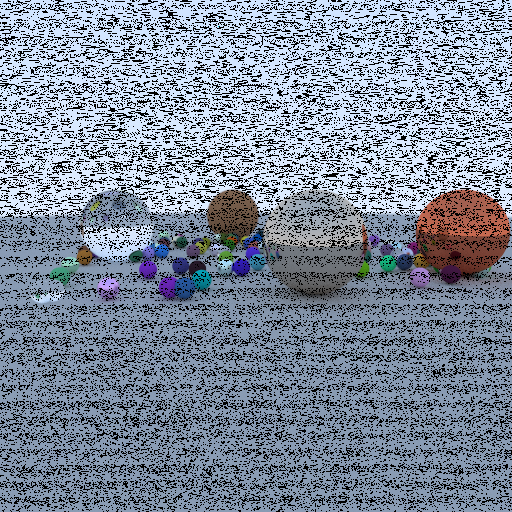
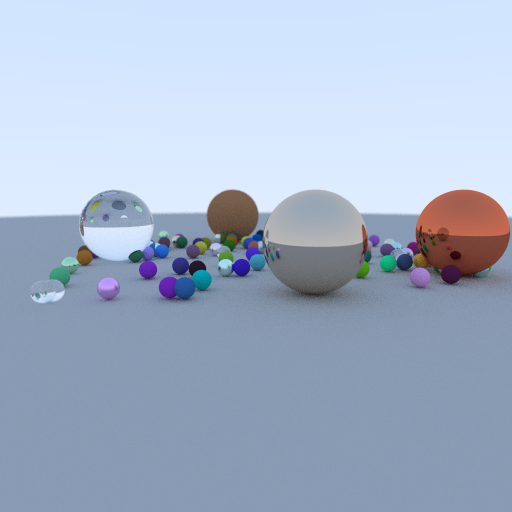
stable rough parallel copy

Changed region(s): [[0.0, 0.0, 1.0, 1.0]]

diff --git a/Ray_Tracing_One_Weekend/main.cpp b/Ray_Tracing_One_Weekend/main.cpp
@@ -79,10 +79,8 @@ int main()
         10.0f                   //focus distance
     );
 
-    RTImage image(image_width, image_height);
-
-    std::vector<RayTraceThread*> threadList;
-    int core_count = 32;
+    std::vector<RayTraceThread*> thread_list;
+    int core_count = 16;
     int lines_per_core = image_height / core_count;
     
     int row_start = 0;
@@ -92,10 +90,10 @@ int main()
 
     for (int i = 0; i < core_count; i++)
     {
-        RayTraceThread* thread = new RayTraceThread(world, &camera, &image, row_start, 
+        RayTraceThread* thread = new RayTraceThread(world, &camera, row_start, 
             row_end, image_width, samples_per_pixel, depth);
         thread->start();
-        threadList.push_back(thread);
+        thread_list.push_back(thread);
 
         row_start += lines_per_core;
         row_end += lines_per_core;
@@ -105,10 +103,10 @@ int main()
 
     while (is_scanning)
     {
-        for (int i = 0; i < threadList.size(); i++)
+        for (int i = 0; i < thread_list.size(); i++)
         {
             is_scanning = false;
-            if (threadList[i]->isRunning())
+            if (thread_list[i]->isRunning())
             {
                 is_scanning = true;
                 break;
@@ -118,6 +116,18 @@ int main()
         IETThread::sleep(100);
     }
 
-    threadList[0]->writeImage();
+    cv::Mat image_container = cv::Mat::zeros(image_height, image_width, CV_8UC3);
+
+    for (int i = 0; i < thread_list.size(); i++)
+    {
+        cv::Mat thread_image = thread_list[i]->getImageData();
+
+        int row_start = thread_list[i]->getRowStart();
+        int row_end = thread_list[i]->getRowEnd();
+
+        cv::bitwise_or(thread_image, image_container, image_container);
+    }
+    cv::String file_name = "_Image_Render.png";
+    cv::imwrite(file_name, image_container);
 
 }

diff --git a/Ray_Tracing_One_Weekend/RayTraceThread.cpp b/Ray_Tracing_One_Weekend/RayTraceThread.cpp
@@ -1,9 +1,12 @@
 #include "RayTraceThread.h"
 
-RayTraceThread::RayTraceThread(const Hittable& world, Camera* camera, RTImage* output_image,
-	int row_start,	int row_end, int column_count, int samples_per_pixel, int depth) : IETThread(),
-	m_camera(camera), m_world(world), m_output_image(output_image), m_row_start(row_start), m_row_end(row_end), m_column_count(column_count),
-	m_samples_per_pixel(samples_per_pixel), m_depth(depth) {}
+RayTraceThread::RayTraceThread(const Hittable& world, Camera* camera, int row_start, int row_end, 
+	int column_count, int samples_per_pixel, int depth) : IETThread(),
+	m_camera(camera), m_world(world), m_row_start(row_start), m_row_end(row_end), m_column_count(column_count),
+	m_samples_per_pixel(samples_per_pixel), m_depth(depth) 
+{
+	this->m_output_image = new RTImage(column_count, column_count);
+}
 
 RayTraceThread::~RayTraceThread() {}
 
@@ -38,4 +41,19 @@ void RayTraceThread::writeImage()
 {
 	cv::String file_name = "_Image_Render.png";
 	this->m_output_image->saveImage(file_name);
+}
+
+cv::Mat RayTraceThread::getImageData()
+{
+	return this->m_output_image->getPixels();
+}
+
+int RayTraceThread::getRowStart()
+{
+	return this->m_row_start;
+}
+
+int RayTraceThread::getRowEnd()
+{
+	return this->m_row_end;
 }

diff --git a/Ray_Tracing_One_Weekend/RayTraceThread.h b/Ray_Tracing_One_Weekend/RayTraceThread.h
@@ -9,14 +9,17 @@
 class RayTraceThread : public IETThread
 {
 public:
-	RayTraceThread(const Hittable& world, Camera* camera, RTImage* output_image, 
-		int row_start, int row_end, int column_count, int samples_per_pixel, 
-		int depth);
+	RayTraceThread(const Hittable& world, Camera* camera, int row_start, 
+		int row_end, int column_count, int samples_per_pixel, int depth);
 	~RayTraceThread();
 
 	void run() override;
 	bool isRunning();
+
 	void writeImage();
+	cv::Mat getImageData();
+	int getRowStart();
+	int getRowEnd();
 
 private:
 	bool m_is_running = false;

diff --git a/Ray_Tracing_One_Weekend/RTImage.h b/Ray_Tracing_One_Weekend/RTImage.h
@@ -8,6 +8,7 @@ public:
 	RTImage(const int image_width, const int image_height);
 	void setPixel(int x, int y, float r, float g, float b, int samples_per_pixel);
 	void saveImage(cv::String& file_name) const;
+	cv::Mat getPixels() const;
 
 private:
 	std::unique_ptr<cv::Mat> m_pixels;

diff --git a/Ray_Tracing_One_Weekend/RTImage.cpp b/Ray_Tracing_One_Weekend/RTImage.cpp
@@ -34,3 +34,8 @@ void RTImage::saveImage(cv::String& file_name) const
 {
 	cv::imwrite(file_name, *this->m_pixels);
 }
+
+cv::Mat RTImage::getPixels() const
+{
+	return this->m_pixels->clone();
+}
